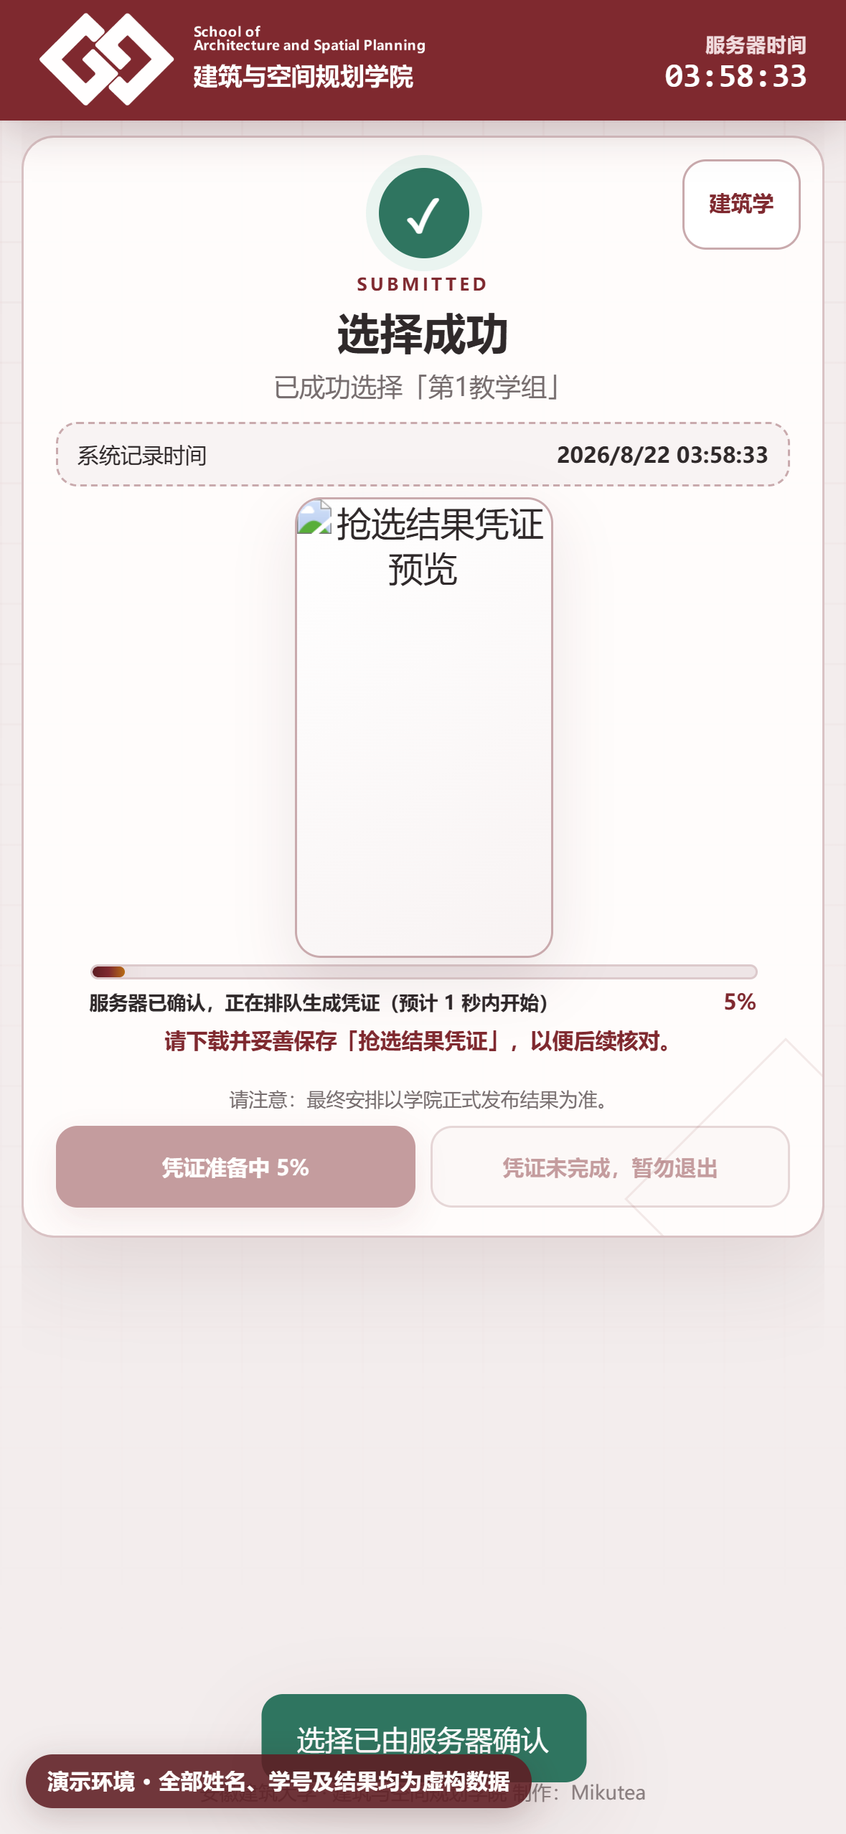
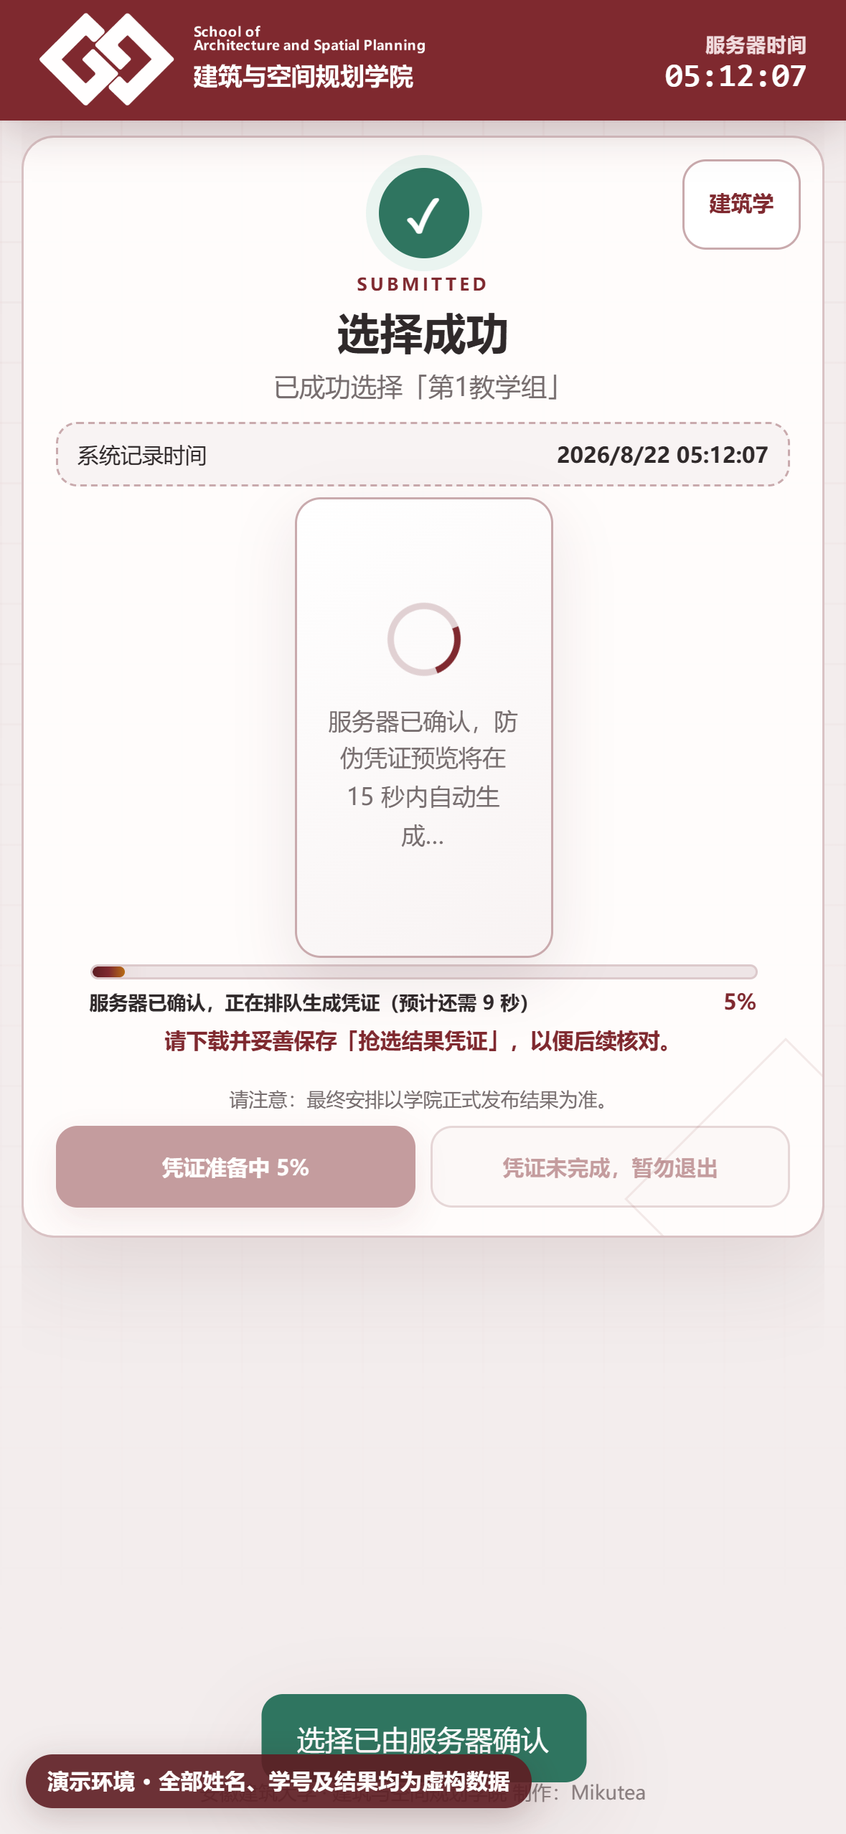
docs: anonymize deployment and refresh projector guides

diff --git a/web/app.css b/web/app.css
@@ -282,7 +282,9 @@ img { display: block; max-width: 100%; }
 .result-card-preview { width: min(100%, 240px); margin: 14px auto 10px; }
 .result-card-preview__frame { position: relative; display: grid; width: 100%; aspect-ratio: 9 / 16; place-items: center; border: 1px solid var(--rule-strong); border-radius: 15px; background: linear-gradient(145deg, #fff, var(--college-soft)); box-shadow: 0 10px 28px rgba(72,24,29,.1); overflow: hidden; }
 .result-card-preview__frame img { display: block; width: 100%; height: 100%; object-fit: contain; }
-.result-card-preview__status { margin: 0; padding: 14px; color: var(--muted); text-align: center; font-size: 11px; line-height: 1.6; }
+.result-card-preview__frame img[hidden] { display: none !important; }
+.result-card-preview__status { display: grid; justify-items: center; gap: 12px; margin: 0; padding: 14px; color: var(--muted); text-align: center; font-size: 11px; line-height: 1.6; }
+.result-card-preview__status::before { content: ""; width: 28px; height: 28px; border: 3px solid #e1d1d3; border-top-color: var(--college); border-radius: 50%; animation: waiting-spin .9s linear infinite; }
 .result-card-preview figcaption { margin-top: 6px; color: var(--muted); text-align: center; font-size: 9px; line-height: 1.45; }
 .result-card-progress { display: grid; gap: 7px; width: min(100%, 360px); margin: 2px auto 9px; }
 .result-card-progress__track { height: 9px; overflow: hidden; border: 1px solid #dcc9cb; border-radius: 999px; background: #eee5e6; }

diff --git a/web/index.html b/web/index.html
@@ -5,7 +5,7 @@
   <meta name="viewport" content="width=device-width, initial-scale=1, viewport-fit=cover">
   <meta name="theme-color" content="#7f292f">
   <title>教学组线上抢选</title>
-  <link rel="stylesheet" href="/assets/app.css?v=20260821-round8">
+  <link rel="stylesheet" href="/assets/app.css?v=20260822-docs1">
 </head>
 <body class="student-body" data-student-view="login">
   <div class="blueprint-grid" aria-hidden="true"></div>

diff --git a/web/admin.html b/web/admin.html
@@ -5,7 +5,7 @@
   <meta name="viewport" content="width=device-width, initial-scale=1">
   <meta name="theme-color" content="#7f292f">
   <title>教学组抢选 · 管理端</title>
-  <link rel="stylesheet" href="/assets/app.css?v=20260816-round8">
+  <link rel="stylesheet" href="/assets/app.css?v=20260822-docs1">
 </head>
 <body class="admin-body">
   <section id="admin-login-view" class="admin-login-shell">

diff --git a/tests/test_roster_autocreate_receipt_round6.py b/tests/test_roster_autocreate_receipt_round6.py
@@ -44,7 +44,7 @@ def test_concurrent_receipt_qr_cache_misses_share_one_render(
         return original_make_image(qr, *args, **kwargs)
 
     monkeypatch.setattr(server_main.qrcode.QRCode, "make_image", slow_make_image)
-    verify_url = "https://class.miyuo.net/receipt#token=single-flight-test"
+    verify_url = "https://choice.example.com/receipt#token=single-flight-test"
 
     def render() -> bytes:
         start.wait(timeout=10)
@@ -85,7 +85,7 @@ def test_distinct_receipt_qr_renders_are_bounded_outside_the_sync_pool() -> None
                     server_main.render_receipt_qr_limited(
                         executor,
                         render,
-                        f"https://class.miyuo.net/receipt#token={index}",
+                        f"https://choice.example.com/receipt#token={index}",
                     )
                     for index in range(20)
                 )
@@ -123,7 +123,7 @@ def test_cancelled_receipt_qr_requests_keep_running_work_charged() -> None:
                 server_main.render_receipt_qr_limited(
                     executor,
                     render,
-                    f"https://class.miyuo.net/receipt#token=cancel-{index}",
+                    f"https://choice.example.com/receipt#token=cancel-{index}",
                 )
             )
             for index in range(2)
@@ -137,7 +137,7 @@ def test_cancelled_receipt_qr_requests_keep_running_work_charged() -> None:
                 server_main.render_receipt_qr_limited(
                     executor,
                     render,
-                    f"https://class.miyuo.net/receipt#token=queued-{index}",
+                    f"https://choice.example.com/receipt#token=queued-{index}",
                 )
             )
             for index in range(2)
@@ -185,7 +185,7 @@ def test_receipt_qr_executor_is_safe_across_event_loops() -> None:
                     server_main.render_receipt_qr_limited(
                         executor,
                         render,
-                        f"https://class.miyuo.net/receipt#token={prefix}-{index}",
+                        f"https://choice.example.com/receipt#token={prefix}-{index}",
                     )
                     for index in range(8)
                 )

diff --git a/tests/test_backend_round5.py b/tests/test_backend_round5.py
@@ -726,12 +726,12 @@ def test_unicode_control_characters_are_rejected_and_xlsx_remains_usable(
     "invalid_url",
     [
         "https://",
-        "https://class.miyuo.net bad",
-        "https://user:password@class.miyuo.net",
-        "https://class.miyuo.net/admin",
-        "https://class.miyuo.net/?activity=1",
-        "https://class.miyuo.net/#board",
-        "ftp://class.miyuo.net",
+        "https://choice.example.com bad",
+        "https://user:password@choice.example.com",
+        "https://choice.example.com/admin",
+        "https://choice.example.com/?activity=1",
+        "https://choice.example.com/#board",
+        "ftp://choice.example.com",
     ],
 )
 def test_public_base_url_accepts_only_a_canonical_site_origin(
@@ -749,11 +749,11 @@ def test_public_base_url_accepts_only_a_canonical_site_origin(
     accepted = client.patch(
         "/api/admin/settings",
         headers=admin_headers,
-        json={"public_base_url": "HTTPS://CLASS.MIYUO.NET/"},
+        json={"public_base_url": "HTTPS://CHOICE.EXAMPLE.COM/"},
     )
     assert accepted.status_code == 200, accepted.text
     dashboard = client.get("/api/admin/dashboard").json()
-    assert dashboard["settings"]["public_base_url"] == "https://class.miyuo.net"
+    assert dashboard["settings"]["public_base_url"] == "https://choice.example.com"
 
 
 def test_selection_can_only_open_through_countdown_endpoint(

diff --git a/tests/test_student_receipt_round6.py b/tests/test_student_receipt_round6.py
@@ -246,6 +246,7 @@ def test_result_preview_is_cached_and_uses_csp_compatible_data_url() -> None:
     assert ".result-card-preview__frame" in css
     assert "aspect-ratio: 9 / 16" in css
     assert "object-fit: contain" in css
+    assert ".result-card-preview__frame img[hidden] { display: none !important; }" in css
     assert '.student-body[data-student-view="success"] .student-hero { display: none; }' in css
     assert '.student-body[data-student-view="success"] .result-card-preview { width: min(34vw, 120px);' in css
     assert '.student-body[data-student-view="success"] .success-card__actions { grid-template-columns: 1fr 1fr;' in css

diff --git a/tests/test_admin_interaction_round7.py b/tests/test_admin_interaction_round7.py
@@ -108,7 +108,7 @@ def test_structure_editor_has_one_save_summary_and_large_matrix_tools() -> None:
     assert "renderStructureSaveSummary" in javascript
     assert 'adminEls.quotaMatrix.addEventListener("paste"' in javascript
     assert 'adminApi("/api/admin/quotas/batch"' in javascript
-    assert '/assets/app.css?v=20260816-round8' in html
+    assert '/assets/app.css?v=20260822-docs1' in html
     assert '/assets/admin.js?v=20260816-round8' in html
 
 

diff --git a/docs/manuals/admin-guide.md b/docs/manuals/admin-guide.md
@@ -4,9 +4,9 @@
 
 # 管理端操作说明
 
-**活动准备 · 候场确认 · 统一倒计时 · 实时大屏 · 结果导出**
+**活动准备 · 候场确认 · 统一倒计时 · 实时大屏 · 凭据核验 · 结果导出**
 
-适用角色：学院授权管理教师　｜　推荐主控：4K 电脑 + 投影/大屏　｜　辅助：手机管理端
+适用角色：学院授权管理教师　｜　推荐主控：1920 × 1080 阶梯教室投影　｜　辅助：手机管理端
 
 </div>
 
@@ -20,7 +20,7 @@
 
 | 角色 | 建议设备 | 主要任务 |
 | --- | --- | --- |
-| 主控教师 | 电脑连接教室投影或 4K 大屏 | 登录、准备检查、倒计时、开放/关闭、观察实时大屏 |
+| 主控教师 | 电脑连接 16:9 教室投影或大屏 | 登录、准备检查、倒计时、开放/关闭、观察实时大屏 |
 | 辅助教师 | 手机管理端 | 随时查看全屏实时大屏、搜索学生并查询激活码 |
 | 结果复核 | 电脑 | 撤销/补位、导出选择记录和完整结果、留存归档 |
 
@@ -30,8 +30,8 @@
 
 打开正式管理地址的 `/admin`，输入部署时设置的管理员账号和当前密码，点击 **“进入管理平台”**。
 
-<p align="center"><img src="images/admin/admin-01-login.png" alt="4K 管理员登录页面，演示数据" width="1200"></p>
-<p align="center"><sub>图 1　4K 管理端登录页；正式环境应使用 HTTPS，浏览器地址必须与学院公布域名一致。</sub></p>
+<p align="center"><img src="images/admin/admin-01-login.png" alt="1920 × 1080 管理员登录页面，演示数据" width="1200"></p>
+<p align="center"><sub>图 1　阶梯教室投影分辨率下的管理端登录页；正式环境应使用 HTTPS，浏览器地址必须与学院公布地址一致。</sub></p>
 
 登录后先确认右上方活动标题与状态。不要使用共享账号密码截图、聊天转发或浏览器明文保存；首次初始化后应清空服务器环境变量中的初始明文密码。
 
@@ -61,8 +61,8 @@
 4. 使用筛选框快速缩小列表；开放抢选后结构会锁定，避免中途改变规则。
 5. 在配额矩阵中设置各专业分配到各教学组的数量。
 
-<p align="center"><img src="images/admin/admin-04-structure-and-quotas.png" alt="4K 专业、教学组和配额矩阵页面，演示数据" width="1200"></p>
-<p align="center"><sub>图 2　专业、教学组和配额矩阵在同一 4K 工作区中完成；截图数据均为虚构。</sub></p>
+<p align="center"><img src="images/admin/admin-04-structure-and-quotas.png" alt="1920 × 1080 专业、教学组和配额矩阵页面，演示数据" width="1200"></p>
+<p align="center"><sub>图 2　专业、教学组和配额矩阵在同一 1920 × 1080 工作区中完成；截图数据均为虚构。</sub></p>
 
 ### 配额矩阵的高效操作
 
@@ -76,7 +76,7 @@
 
 进入 **“学生与结果”**，在“导入学生名单”中选择一个或多个 CSV / XLS / XLSX 文件。
 
-<p align="center"><img src="images/admin/admin-05-roster-import.png" alt="4K 学生名单导入页面，演示数据" width="1200"></p>
+<p align="center"><img src="images/admin/admin-05-roster-import.png" alt="1920 × 1080 学生名单导入页面，演示数据" width="1200"></p>
 <p align="center"><sub>图 3　导入、处理模式和补位功能集中在同一页面；不应使用真实名单制作公开截图。</sub></p>
 
 ### 文件要求
@@ -99,7 +99,7 @@
 
 “本场完整学生名单”默认显示全部学生，可按姓名、学号或专业快速搜索。激活码默认显示为 `••••••`，点击 **“显示明文”** 后短暂展示，60 秒后自动隐藏并记录审计。
 
-<p align="center"><img src="images/admin/admin-06-activation-query.png" alt="4K 激活码查询页面，演示数据" width="1200"></p>
+<p align="center"><img src="images/admin/admin-06-activation-query.png" alt="1920 × 1080 激活码查询页面，演示数据" width="1200"></p>
 <p align="center"><sub>图 4　激活码默认遮罩；只向本人核验，不在群聊、投影或截图中公开。</sub></p>
 
 查询时先让学生提供姓名与学号，再当面核对。不要批量展示、抄录或导出激活码；若无法显示，应在关闭抢选后重新导入当前规范名单。
@@ -113,7 +113,7 @@
 - 实时进入候场流水；
 - 按专业展示并连续滚动的尚未进入名单。
 
-<p align="center"><img src="images/admin/admin-07-waiting-dashboard.png" alt="4K 候场实时大屏，演示数据" width="1200"></p>
+<p align="center"><img src="images/admin/admin-07-waiting-dashboard.png" alt="1920 × 1080 候场实时大屏，演示数据" width="1200"></p>
 <p align="center"><sub>图 5　主控教师根据实时名单核对到场情况；二维码和人数每秒自动同步。</sub></p>
 
 建议等大多数学生进入后再开始。对于迟到、请假或无法登录的学生，先确认学院现场规则，不要因为单个设备异常临时改变配额。
@@ -122,25 +122,25 @@
 
 点击 **“开始 10 秒倒计时”**。若仍有学生未进入，系统会弹出确认窗口，按专业分组显示姓名与人数。
 
-<p align="center"><img src="images/admin/admin-08-countdown-confirmation.png" alt="4K 未进入候场学生确认窗口，演示数据" width="1200"></p>
+<p align="center"><img src="images/admin/admin-08-countdown-confirmation.png" alt="1920 × 1080 未进入候场学生确认窗口，演示数据" width="1200"></p>
 <p align="center"><sub>图 6　先核对尚未进入名单；确认按既定规则继续时，再点击“仍然开始倒计时”。</sub></p>
 
 确认后，所有管理端会强制进入实时大屏展示倒计时，倒计时动画不会嵌在普通管理后台中。不要在倒计时期间刷新、切换活动或关闭浏览器。
 
-<p align="center"><img src="images/admin/admin-09-countdown.png" alt="4K 全屏统一倒计时，演示数据" width="1200"></p>
-<p align="center"><sub>图 7　4K 全屏倒计时；开放时刻由服务器保存的绝对时间决定。</sub></p>
+<p align="center"><img src="images/admin/admin-09-countdown.png" alt="1920 × 1080 全屏统一倒计时动画，演示数据" width="1200"></p>
+<p align="center"><sub>图 7　完整进入动画后的 1920 × 1080 全屏倒计时；开放时刻由服务器保存的绝对时间决定。</sub></p>
 
 ## 八、开放期间监控实时大屏
 
 倒计时归零后系统自动开放。普通管理页集中显示教学组名额、选择流水、二维码、已选/未选人数、总体完成率和未选名单。
 
-<p align="center"><img src="images/admin/admin-02-live-dashboard.png" alt="4K 抢选进行中管理面板，演示数据" width="1200"></p>
+<p align="center"><img src="images/admin/admin-02-live-dashboard.png" alt="1920 × 1080 抢选进行中管理面板，演示数据" width="1200"></p>
 <p align="center"><sub>图 8　进行中管理面板用于主控操作和最近选择记录核对。</sub></p>
 
 点击 **“进入实时大屏”** 或 **“全屏展示”** 后，可投放到教室屏幕。列表采用连续滚动方式展示，二维码位于中间主视觉区域。
 
-<p align="center"><img src="images/admin/admin-03-fullscreen-board.png" alt="4K 全屏实时大屏，演示数据" width="1200"></p>
-<p align="center"><sub>图 9　4K 全屏实时大屏：左侧教学组与选择流水，中间二维码，右侧总体进度和未选学生。</sub></p>
+<p align="center"><img src="images/admin/admin-03-fullscreen-board.png" alt="1920 × 1080 全屏实时大屏，演示数据" width="1200"></p>
+<p align="center"><sub>图 9　阶梯教室全屏实时大屏：左侧教学组与选择流水，中间二维码，右侧总体进度和未选学生。</sub></p>
 
 ### 开放期间重点观察
 
@@ -163,7 +163,24 @@
 
 不要为了修改单个学生而重新开放整场抢选。优先使用补位/撤销的受控流程。
 
-## 十、导出与打印
+## 十、核验抢选结果凭据
+
+学生下载的“抢选结果凭据”包含防伪二维码和短核验编号。需要复核时，应读取服务器原始记录，不能只看学生提供的截图文字或卡片样式。
+
+1. 请学生打开已下载的原始凭据图片，不要使用聊天软件压缩后无法识别的缩略图。
+2. 用教师手机相机或可信扫码工具扫描凭据右下角二维码。
+3. 等待核验页面显示 **“核验有效”**，再逐项核对活动、姓名、脱敏学号、专业、教学组、系统记录时间和核验编号。
+4. 若显示 **“已撤销”**，说明原选择已被管理员撤销，不能继续作为当前结果使用。
+5. 若显示 **“无效”**，应让学生重新打开原始凭据；仍无效时以管理端导出记录为准并检查审计日志。
+6. 若显示网络错误或请求过于频繁，保持原页面，稍候点击 **“重新核验”**；不要据此直接判断凭据真伪。
+
+<p align="center"><img src="images/admin/admin-10-receipt-verification.png" alt="iPhone 15 Pro 抢选结果凭据核验有效页面，演示数据" width="393"></p>
+<p align="center"><sub>图 10　“核验有效”表示凭据内容与服务器原始抢选记录一致；截图中的姓名、学号、结果和编号均为虚构。</sub></p>
+
+> [!IMPORTANT]
+> 核验页只保留必要的脱敏学号，并在读取后从地址栏移除凭据令牌。请勿复制、转发二维码链接，也不要把核验页面作为新的学生凭据长期保存。
+
+## 十一、导出与打印
 
 管理端提供：
 
@@ -173,7 +190,7 @@
 
 工作簿已统一设置自动列宽、水平/垂直居中、表头样式、分页和打印区域，下载后可直接使用 WPS 或 Excel 检查并打印。打印前仍需确认：活动标题、总人数、已选/未选统计和每组人数与管理端一致。
 
-## 十一、手机管理端
+## 十二、手机管理端
 
 手机管理端只保留两项高频功能：**实时大屏控制**和**激活码查询**，界面按 iPhone 15 Pro 竖屏自适应，不需要横向滚动。
 
@@ -187,7 +204,7 @@
 
 手机可作为辅助主控，但正式倒计时和开关操作仍建议由现场指定的一名教师负责，避免电脑和手机同时重复操作。
 
-## 十二、异常处置速查
+## 十三、异常处置速查
 
 | 现象 | 立即动作 | 后续判断 |
 | --- | --- | --- |
@@ -198,9 +215,10 @@
 | 提交峰值响应变慢 | 不刷新服务器、不重启容器；让学生保持页面等待 | 观察受控排队与错误率，确认无超卖 |
 | 某组名额异常 | 立即关闭抢选并导出当前记录 | 完整性检查后再决定撤销或补位 |
 | 凭证生成缓慢 | 选择已成功的学生保持页面等待进度 100% | 不让学生重复提交，检查静态资源和服务日志 |
+| 凭据扫码核验无效 | 重新扫描学生保存的原始图片，核对活动与核验编号 | 查看该选择是否已撤销；最终以服务器导出和审计日志为准 |
 | 管理端会话失效 | 使用另一已登录管理设备保持现场控制 | 重新登录前确认不会重复触发倒计时或关闭 |
 
-## 十三、结束后的标准流程
+## 十四、结束后的标准流程
 
 1. 关闭抢选并确认状态为“已关闭”。
 2. 导出选择记录、未选名单和完整结果。

diff --git a/docs/deployment.md b/docs/deployment.md
@@ -15,7 +15,7 @@ git clone https://github.com/mikutea/ahjzu-teaching-group-choice.git /opt/ahjzu-
 cd /opt/ahjzu-teaching-group-choice
 chmod +x deploy/bootstrap.sh
 sudo APP_DIR=/opt/ahjzu-teaching-group-choice \
-  PUBLIC_URL=https://class.miyuo.net \
+  PUBLIC_URL=https://choice.example.com \
   ORIGIN_BIND=127.0.0.1 \
   ./deploy/bootstrap.sh
 ```
@@ -86,7 +86,8 @@ sudo UPDATE_TARGET="${commit}" /usr/local/sbin/teaching-choice-update
 
 ## Cloudflare Tunnel
 
-生产域名为 `https://class.miyuo.net`，使用独立的远程管理 Tunnel
+生产域名必须通过部署参数提供，本手册统一以保留示例地址
+`https://choice.example.com` 表示。使用独立的远程管理 Tunnel
 `ahjzu-teaching-choice`，源站规则指向 VM 本机 `http://127.0.0.1:80`。
 Compose 默认把宿主机 80 端口绑定到 `127.0.0.1`；Tunnel 由
 `cloudflared` 主动建立出站连接，因此不需要开放源站入站端口。
@@ -126,20 +127,20 @@ APP_NOFILE_LIMIT=8192
 SQLITE_WRITE_BATCH_SIZE=64
 SQLITE_WRITE_QUEUE_LIMIT=4096
 SQLITE_WRITE_BATCH_WINDOW_MS=4
-PUBLIC_BASE_URL=https://class.miyuo.net
+PUBLIC_BASE_URL=https://choice.example.com
 COOKIE_SECURE=true
 TRUSTED_PROXY_IPS=172.18.0.1
 ```
 
 ## HTTPS 与 HSTS
 
-先在 Cloudflare 验证 `class.miyuo.net` 始终可用 HTTPS，并启用该主机名的 HTTP 到
+先在 Cloudflare 验证 `choice.example.com` 始终可用 HTTPS，并启用该主机名的 HTTP 到
 HTTPS 跳转。Cloudflare 的 `Always Use HTTPS` 会影响同一区域中的全部主机名；只有
-`miyuo.net` 的所有站点都支持 HTTPS 时才能在区域级启用，否则应使用仅匹配
-`class.miyuo.net` 的 Redirect Rule。
+`example.com` 区域中的所有站点都支持 HTTPS 时才能在区域级启用，否则应使用仅匹配
+`choice.example.com` 的 Redirect Rule。实际配置时请把示例主机名替换为受控生产域名。
 
 为避免影响同一区域的其他子域，优先建立只匹配
-`(http.host eq "class.miyuo.net")` 的 Response Header Transform Rule，以 `Set static`
+`(http.host eq "choice.example.com")` 的 Response Header Transform Rule，以 `Set static`
 设置 `Strict-Transport-Security`。确认 Tunnel、边缘证书和恢复流程稳定后再分阶段调整：
 
 1. 先使用 `max-age=2592000`（30 天），不附加 `includeSubDomains` 或 `preload`；

diff --git a/README.md b/README.md
@@ -14,7 +14,7 @@
 
 **无需安装 App · 服务端统一倒计时 · 原子名额判定 · 防伪结果凭证 · WPS 友好导出**
 
-[在线入口](https://class.miyuo.net/) · [学生端操作说明](docs/manuals/student-guide.md) · [管理端操作说明](docs/manuals/admin-guide.md) · [部署手册](docs/deployment.md) · [并发架构](docs/architecture.md) · [安全说明](SECURITY.md)
+[学生端操作说明](docs/manuals/student-guide.md) · [管理端操作说明](docs/manuals/admin-guide.md) · [部署手册](docs/deployment.md) · [并发架构](docs/architecture.md) · [安全说明](SECURITY.md)
 
 </div>
 
@@ -58,7 +58,7 @@
 | 手册 | 内容 | 截图基准 |
 | --- | --- | --- |
 | [学生端操作说明](docs/manuals/student-guide.md) | 身份核验、候场、统一倒计时、选组、二次确认、凭证生成进度与下载保存 | iPhone 15 Pro，1179 × 2556 输出 |
-| [管理端操作说明](docs/manuals/admin-guide.md) | 活动准备、配额、名单、激活码、候场、倒计时、实时大屏、补位撤销、导出与手机管理 | 4K 3840 × 2160 + iPhone 15 Pro |
+| [管理端操作说明](docs/manuals/admin-guide.md) | 活动准备、配额、名单、激活码、候场、倒计时、实时大屏、凭据核验、补位撤销、导出与手机管理 | 1920 × 1080 阶梯教室投影 + iPhone 15 Pro |
 
 > [!NOTE]
 > 操作手册截图均采自隔离演示环境，全部姓名、学号、激活码和选择结果均为虚构数据。每张图片带有固定演示水印，即使图片被单独转发也不会被误认为真实业务记录。

diff --git a/docs/manuals/README.md b/docs/manuals/README.md
@@ -26,4 +26,4 @@
   </tr>
 </table>
 
-截图基准：学生端与手机管理端使用 iPhone 15 Pro 竖屏视口（393 × 852 CSS 像素，3× 输出为 1179 × 2556）；电脑管理端与实时大屏使用 4K（3840 × 2160）。
+截图基准：学生端与手机管理端使用 iPhone 15 Pro 竖屏视口（393 × 852 CSS 像素，3× 输出为 1179 × 2556）；电脑管理端与实时大屏使用常见阶梯教室 16:9 投影分辨率（1920 × 1080）。
